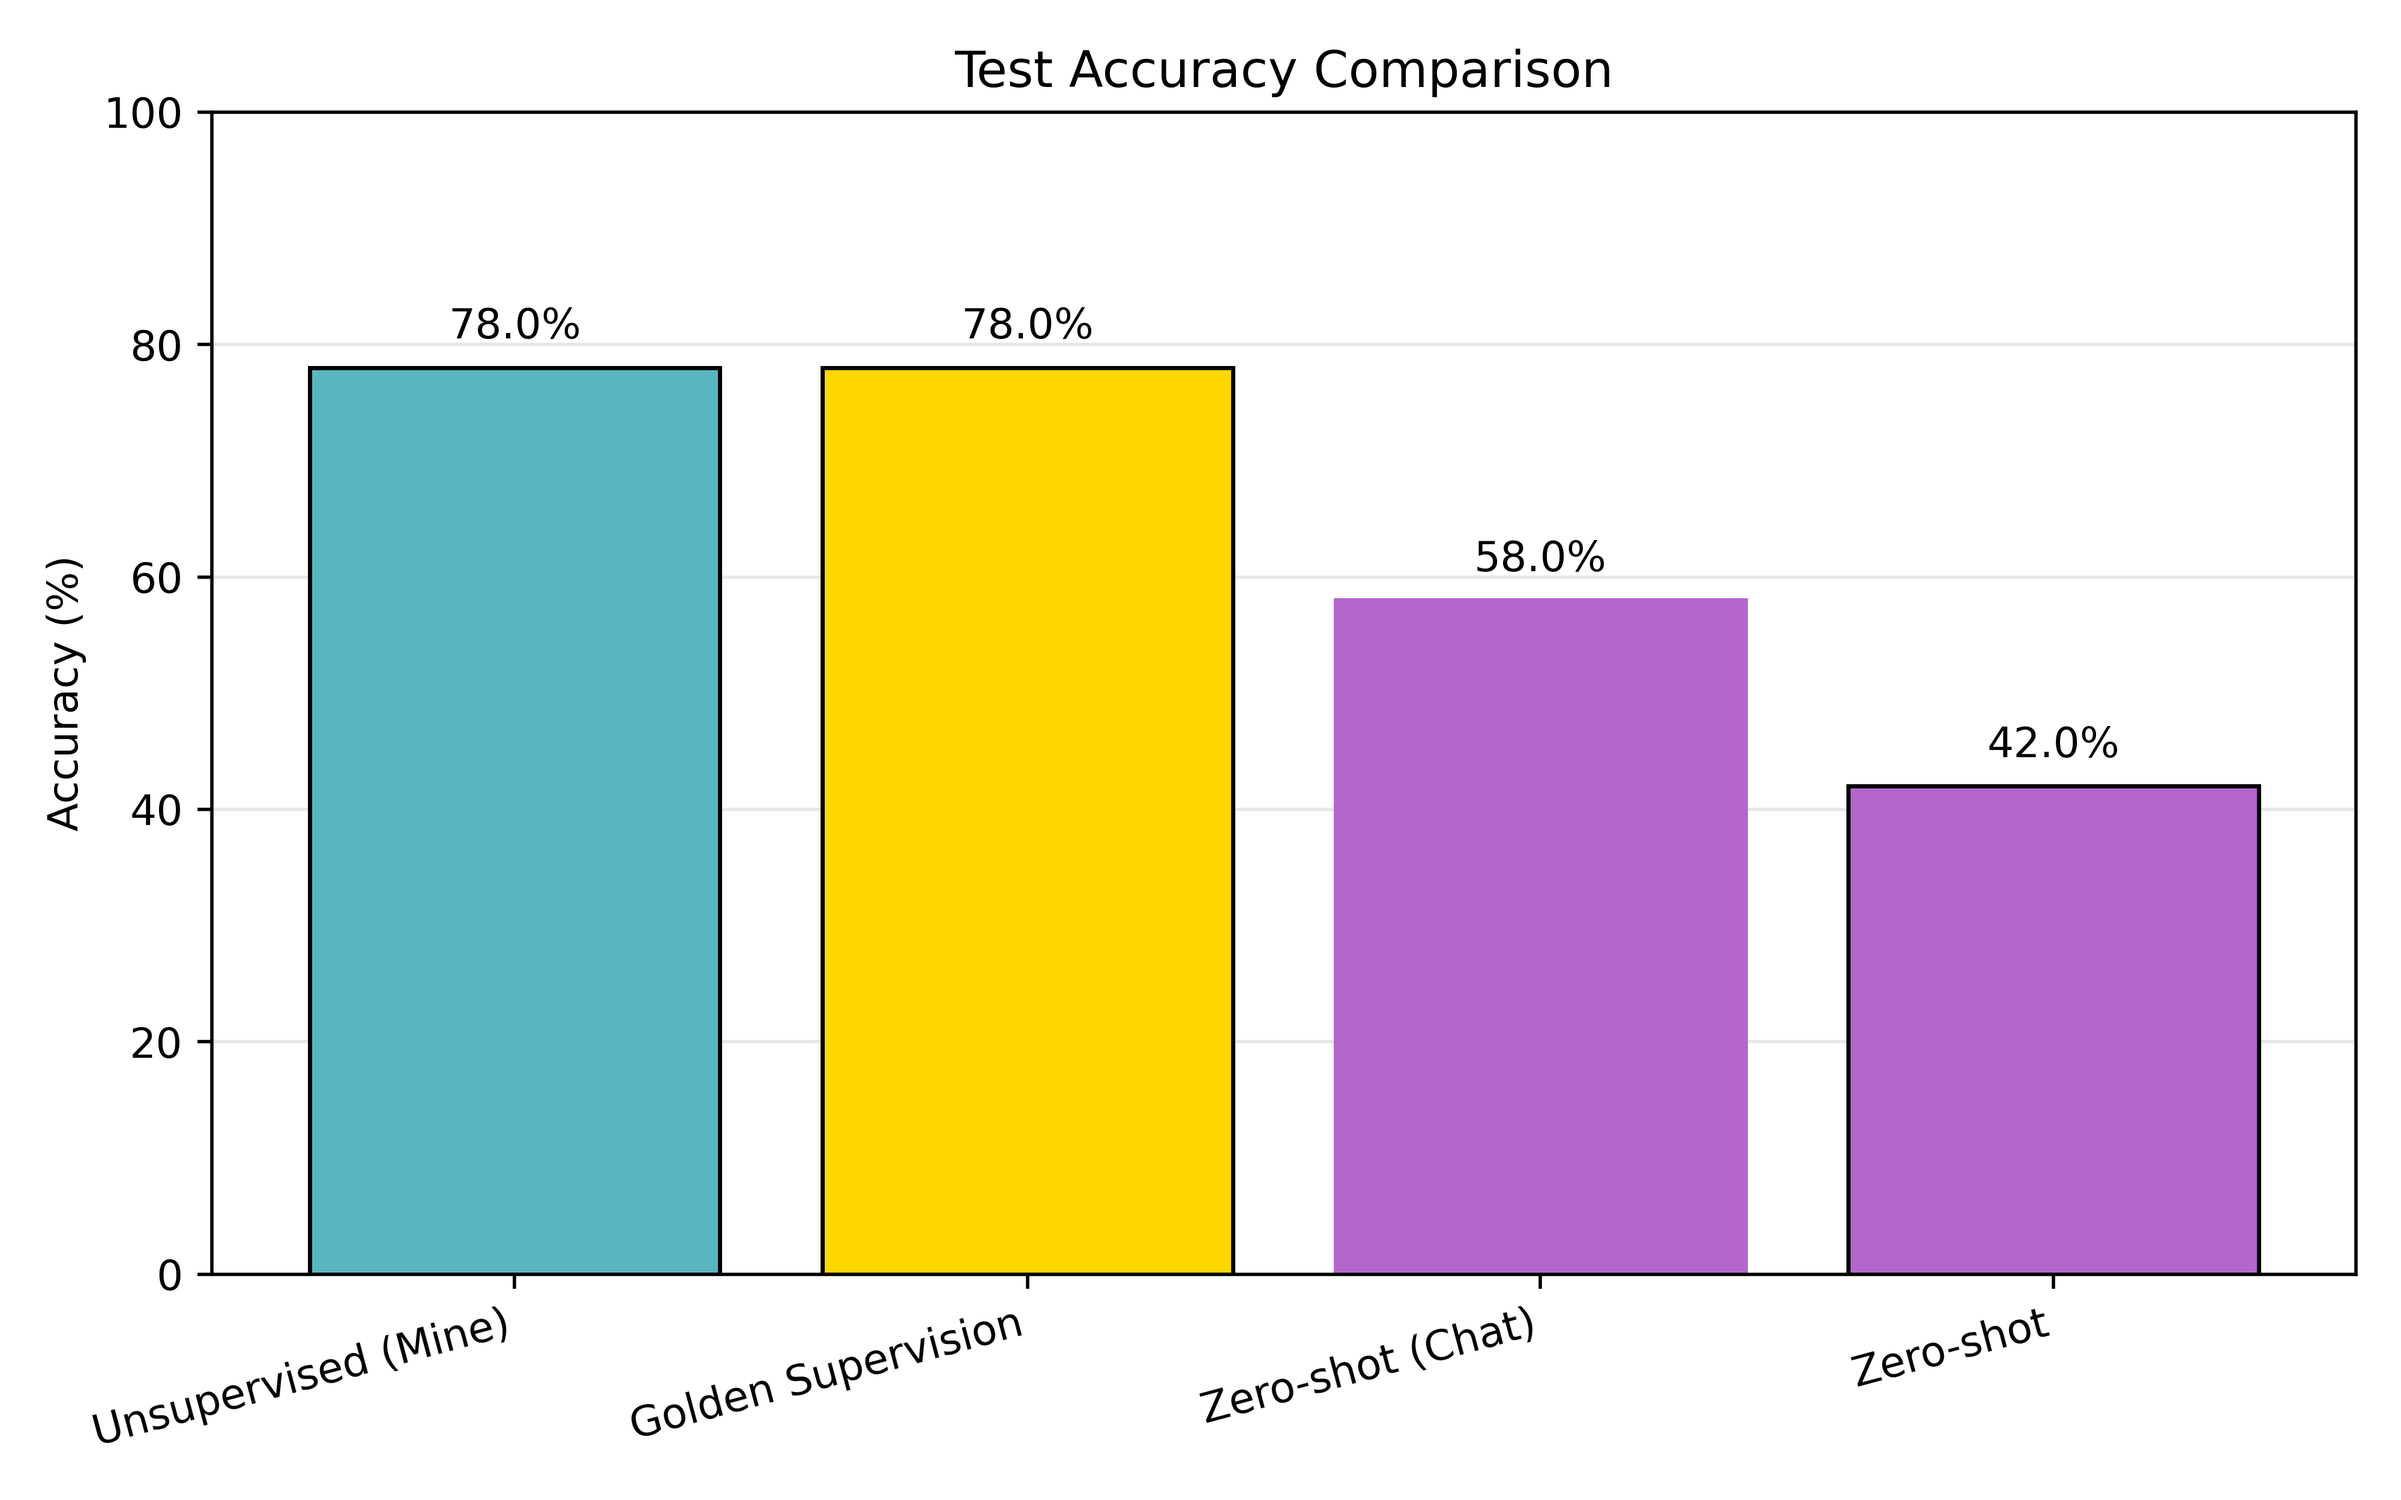
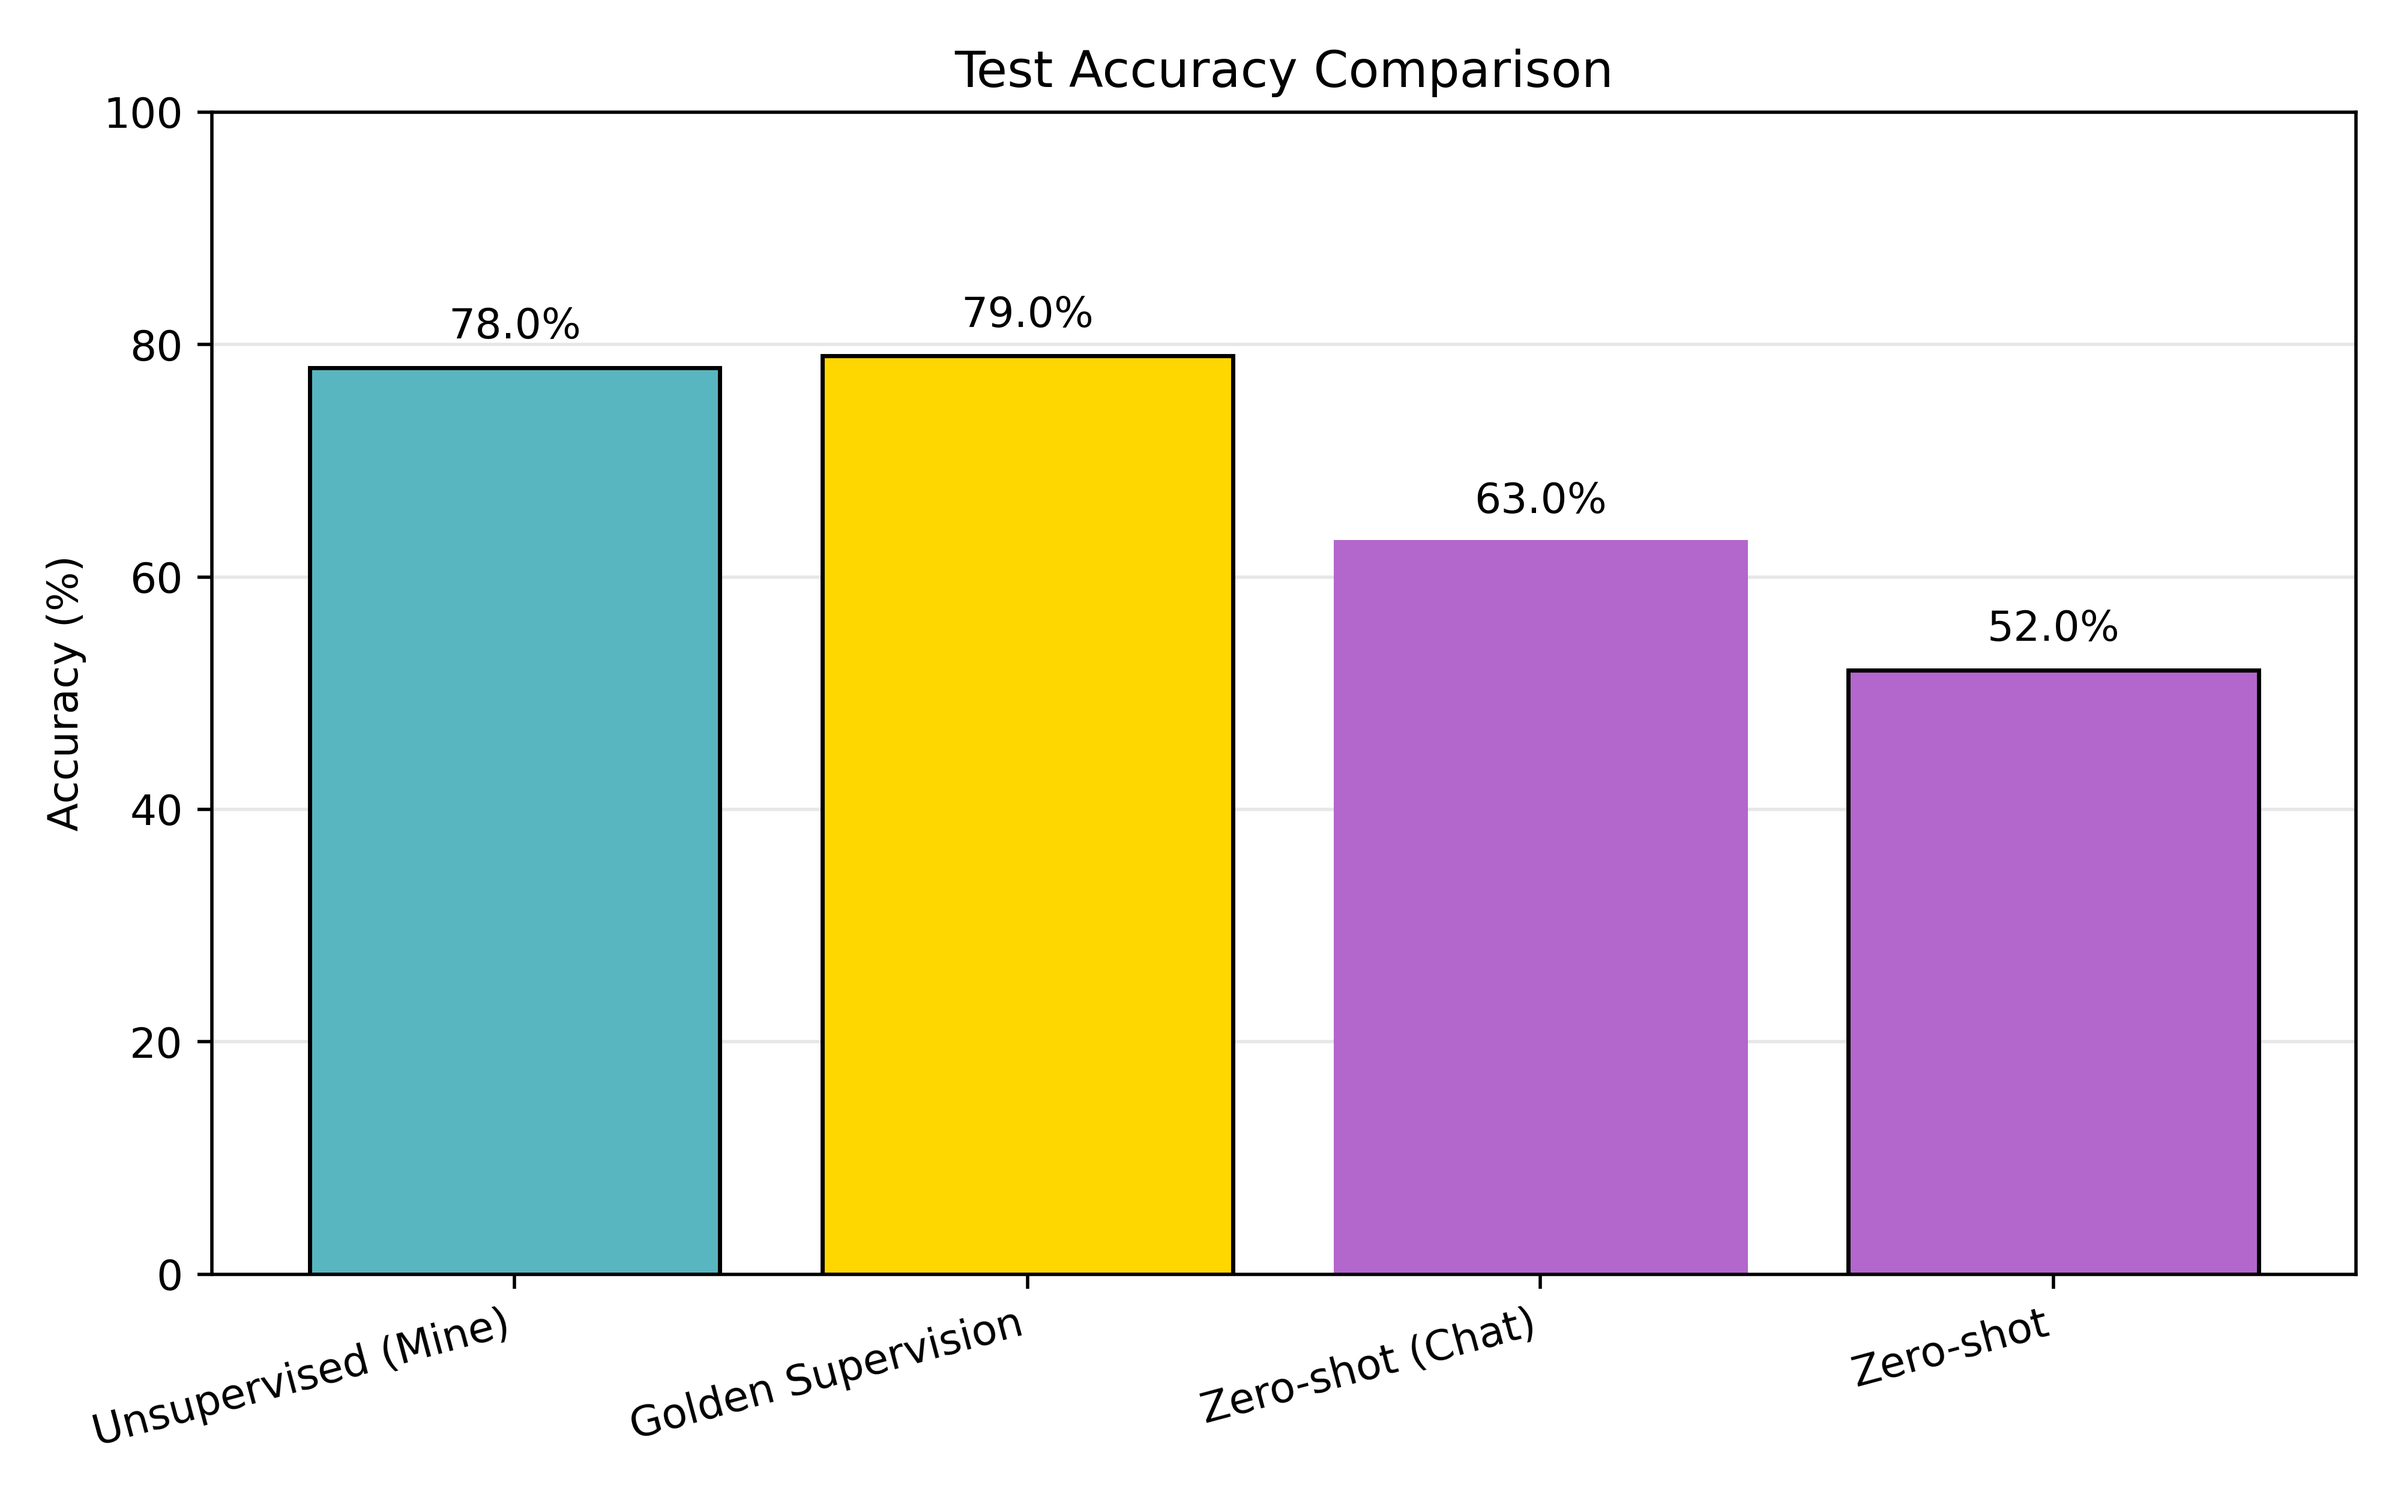
finalized readme and fig 1

Changed region(s): [[0.75, 0.4056, 0.9688, 0.5304], [0.5312, 0.312, 0.75, 0.4056], [0.3438, 0.1872, 0.5312, 0.2496]]

diff --git a/README.md b/README.md
@@ -8,9 +8,9 @@ This repository is a fork of [Jiaxin-Wen/Unsupervised-Elicitation](https://githu
   <img width="70%" src="figure_1.png">
 </p>
 
-**Llama 3.1 8B on TruthfulQA** - The unsupervised ICM algorithm achieves **78% accuracy**, matching fully supervised training (Golden Supervision), and significantly outperforming:
-- Zero-shot Chat (instruction-tuned model): 58%
-- Zero-shot Base (pretrained model): 42%
+**Llama 3.1 8B on TruthfulQA** - In-context learning with ICM  achieves **78% accuracy**, nearly matching using golden labels, and significantly outperforming:
+- Zero-shot Chat (instruction-tuned model): 63%
+- Zero-shot Base (pretrained model): 52%
 
 ## What's New in This Fork
 
